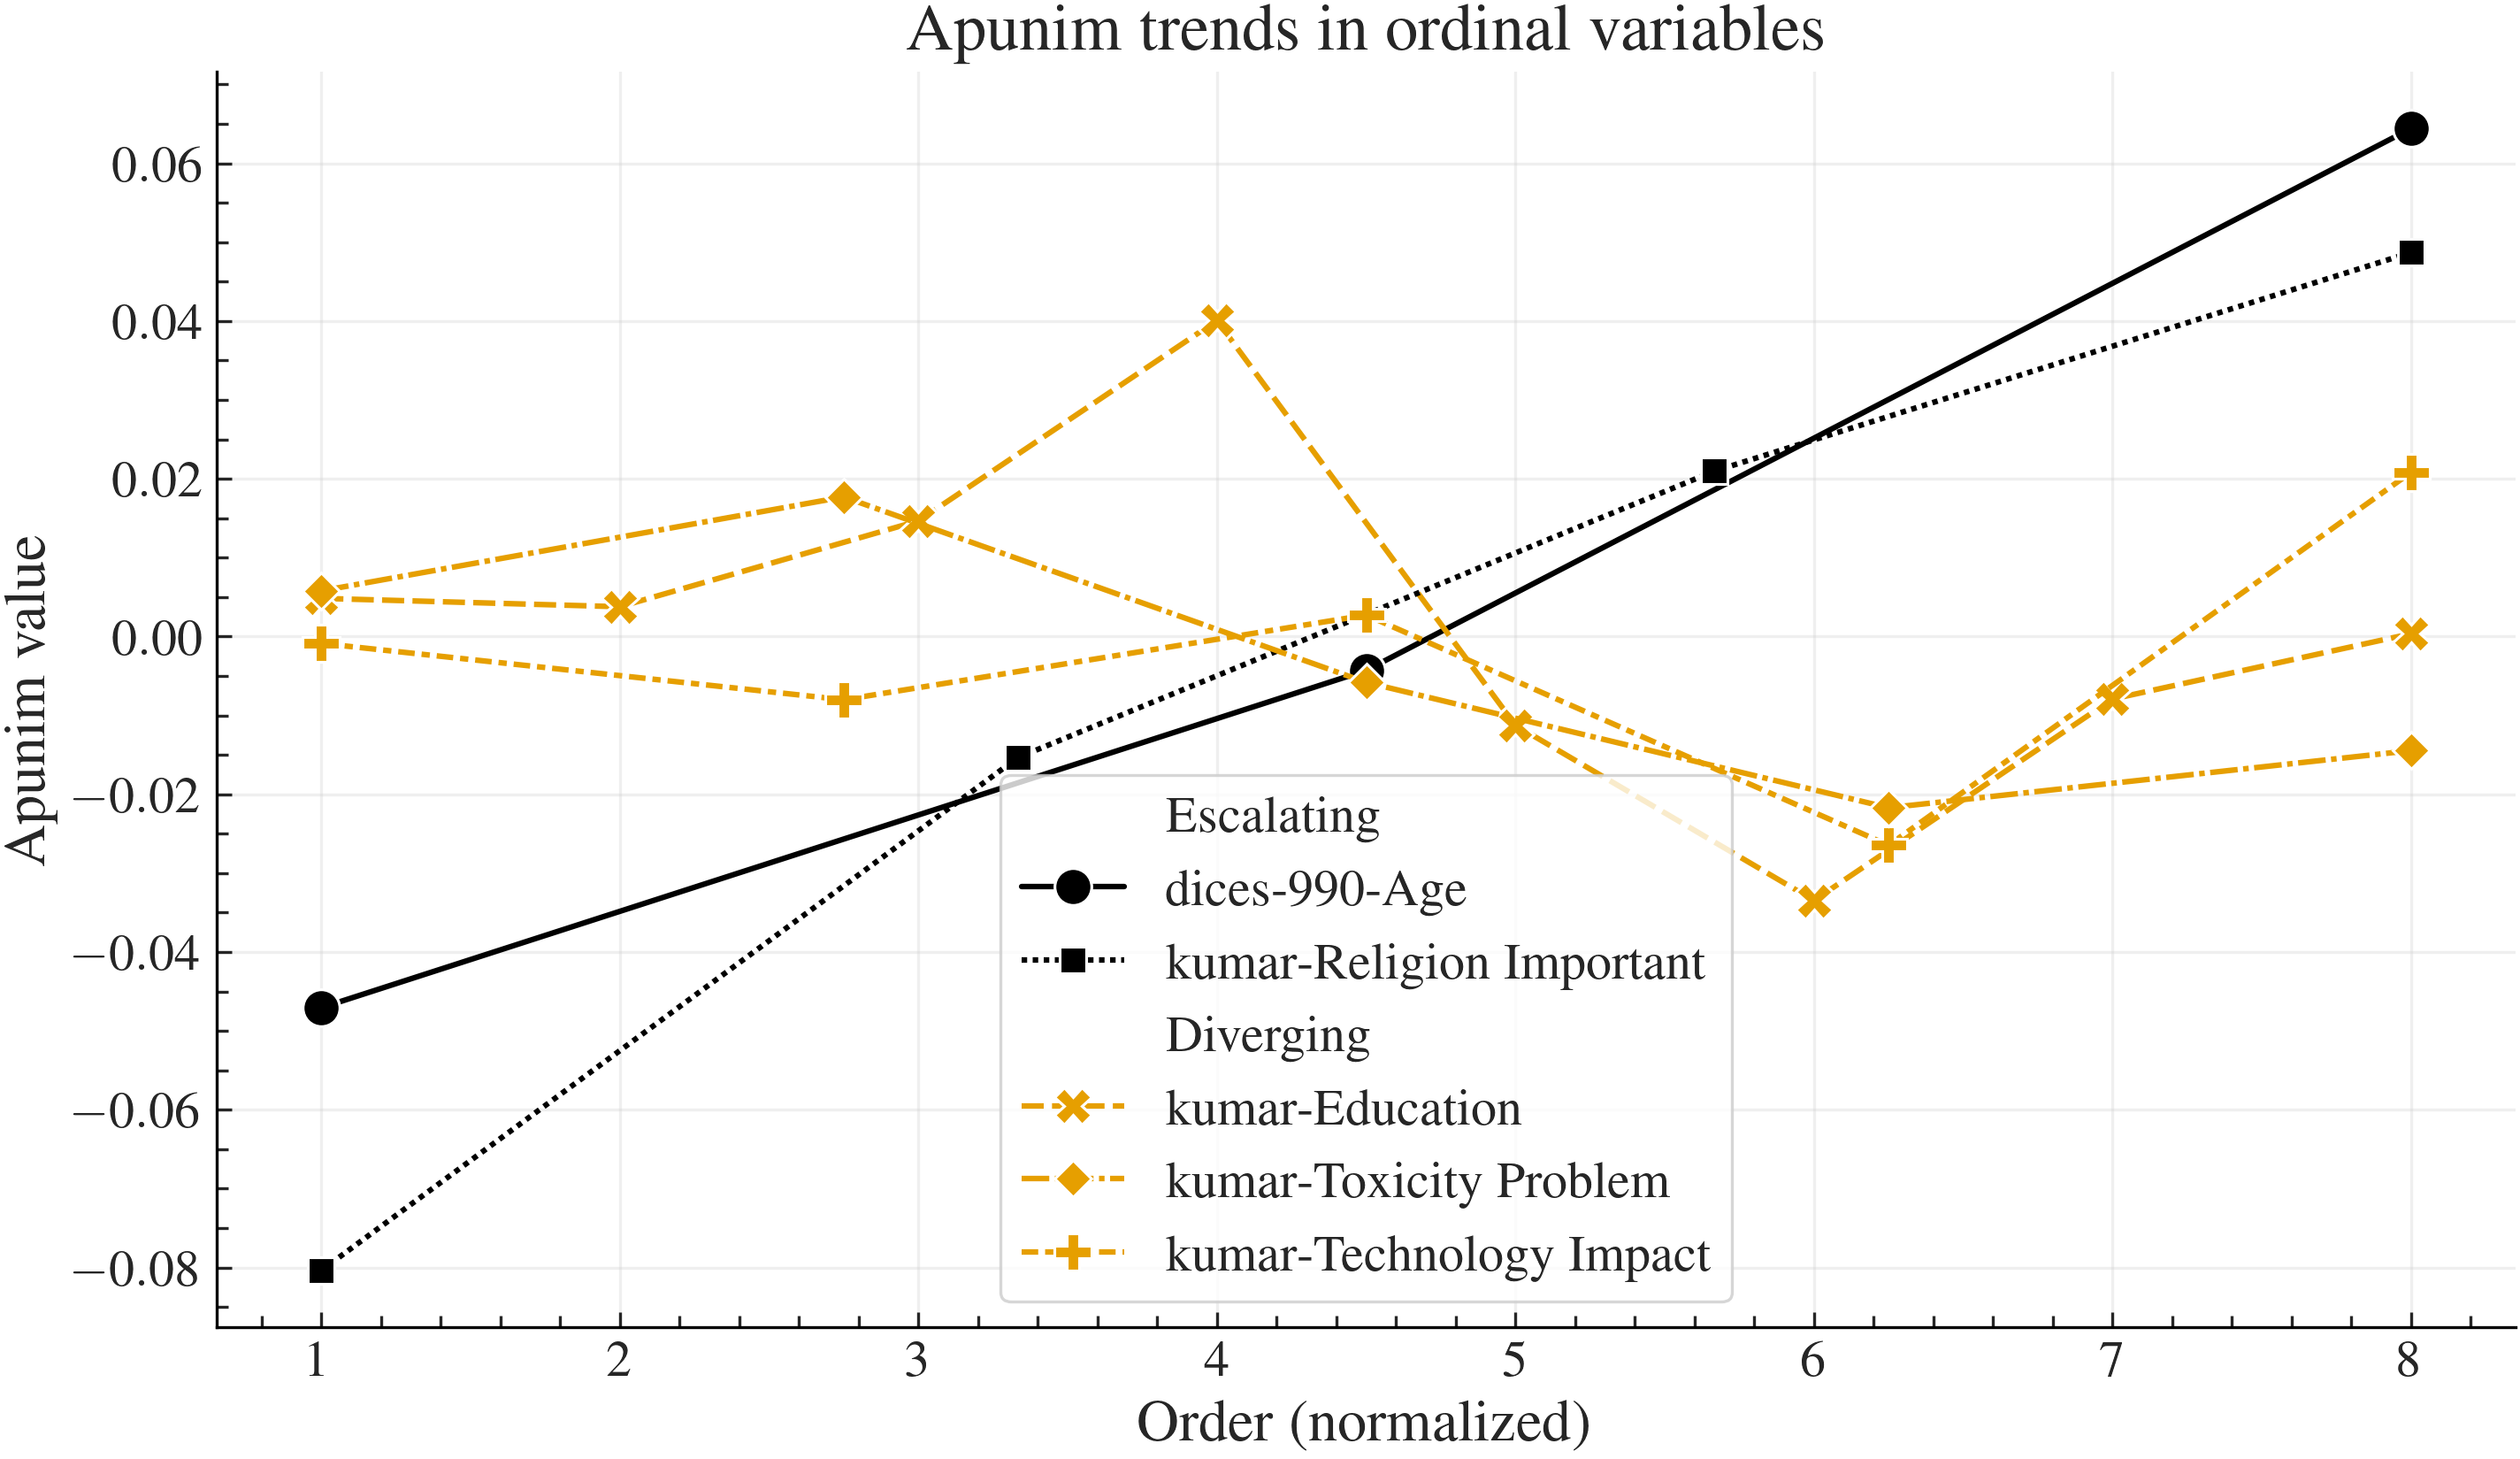
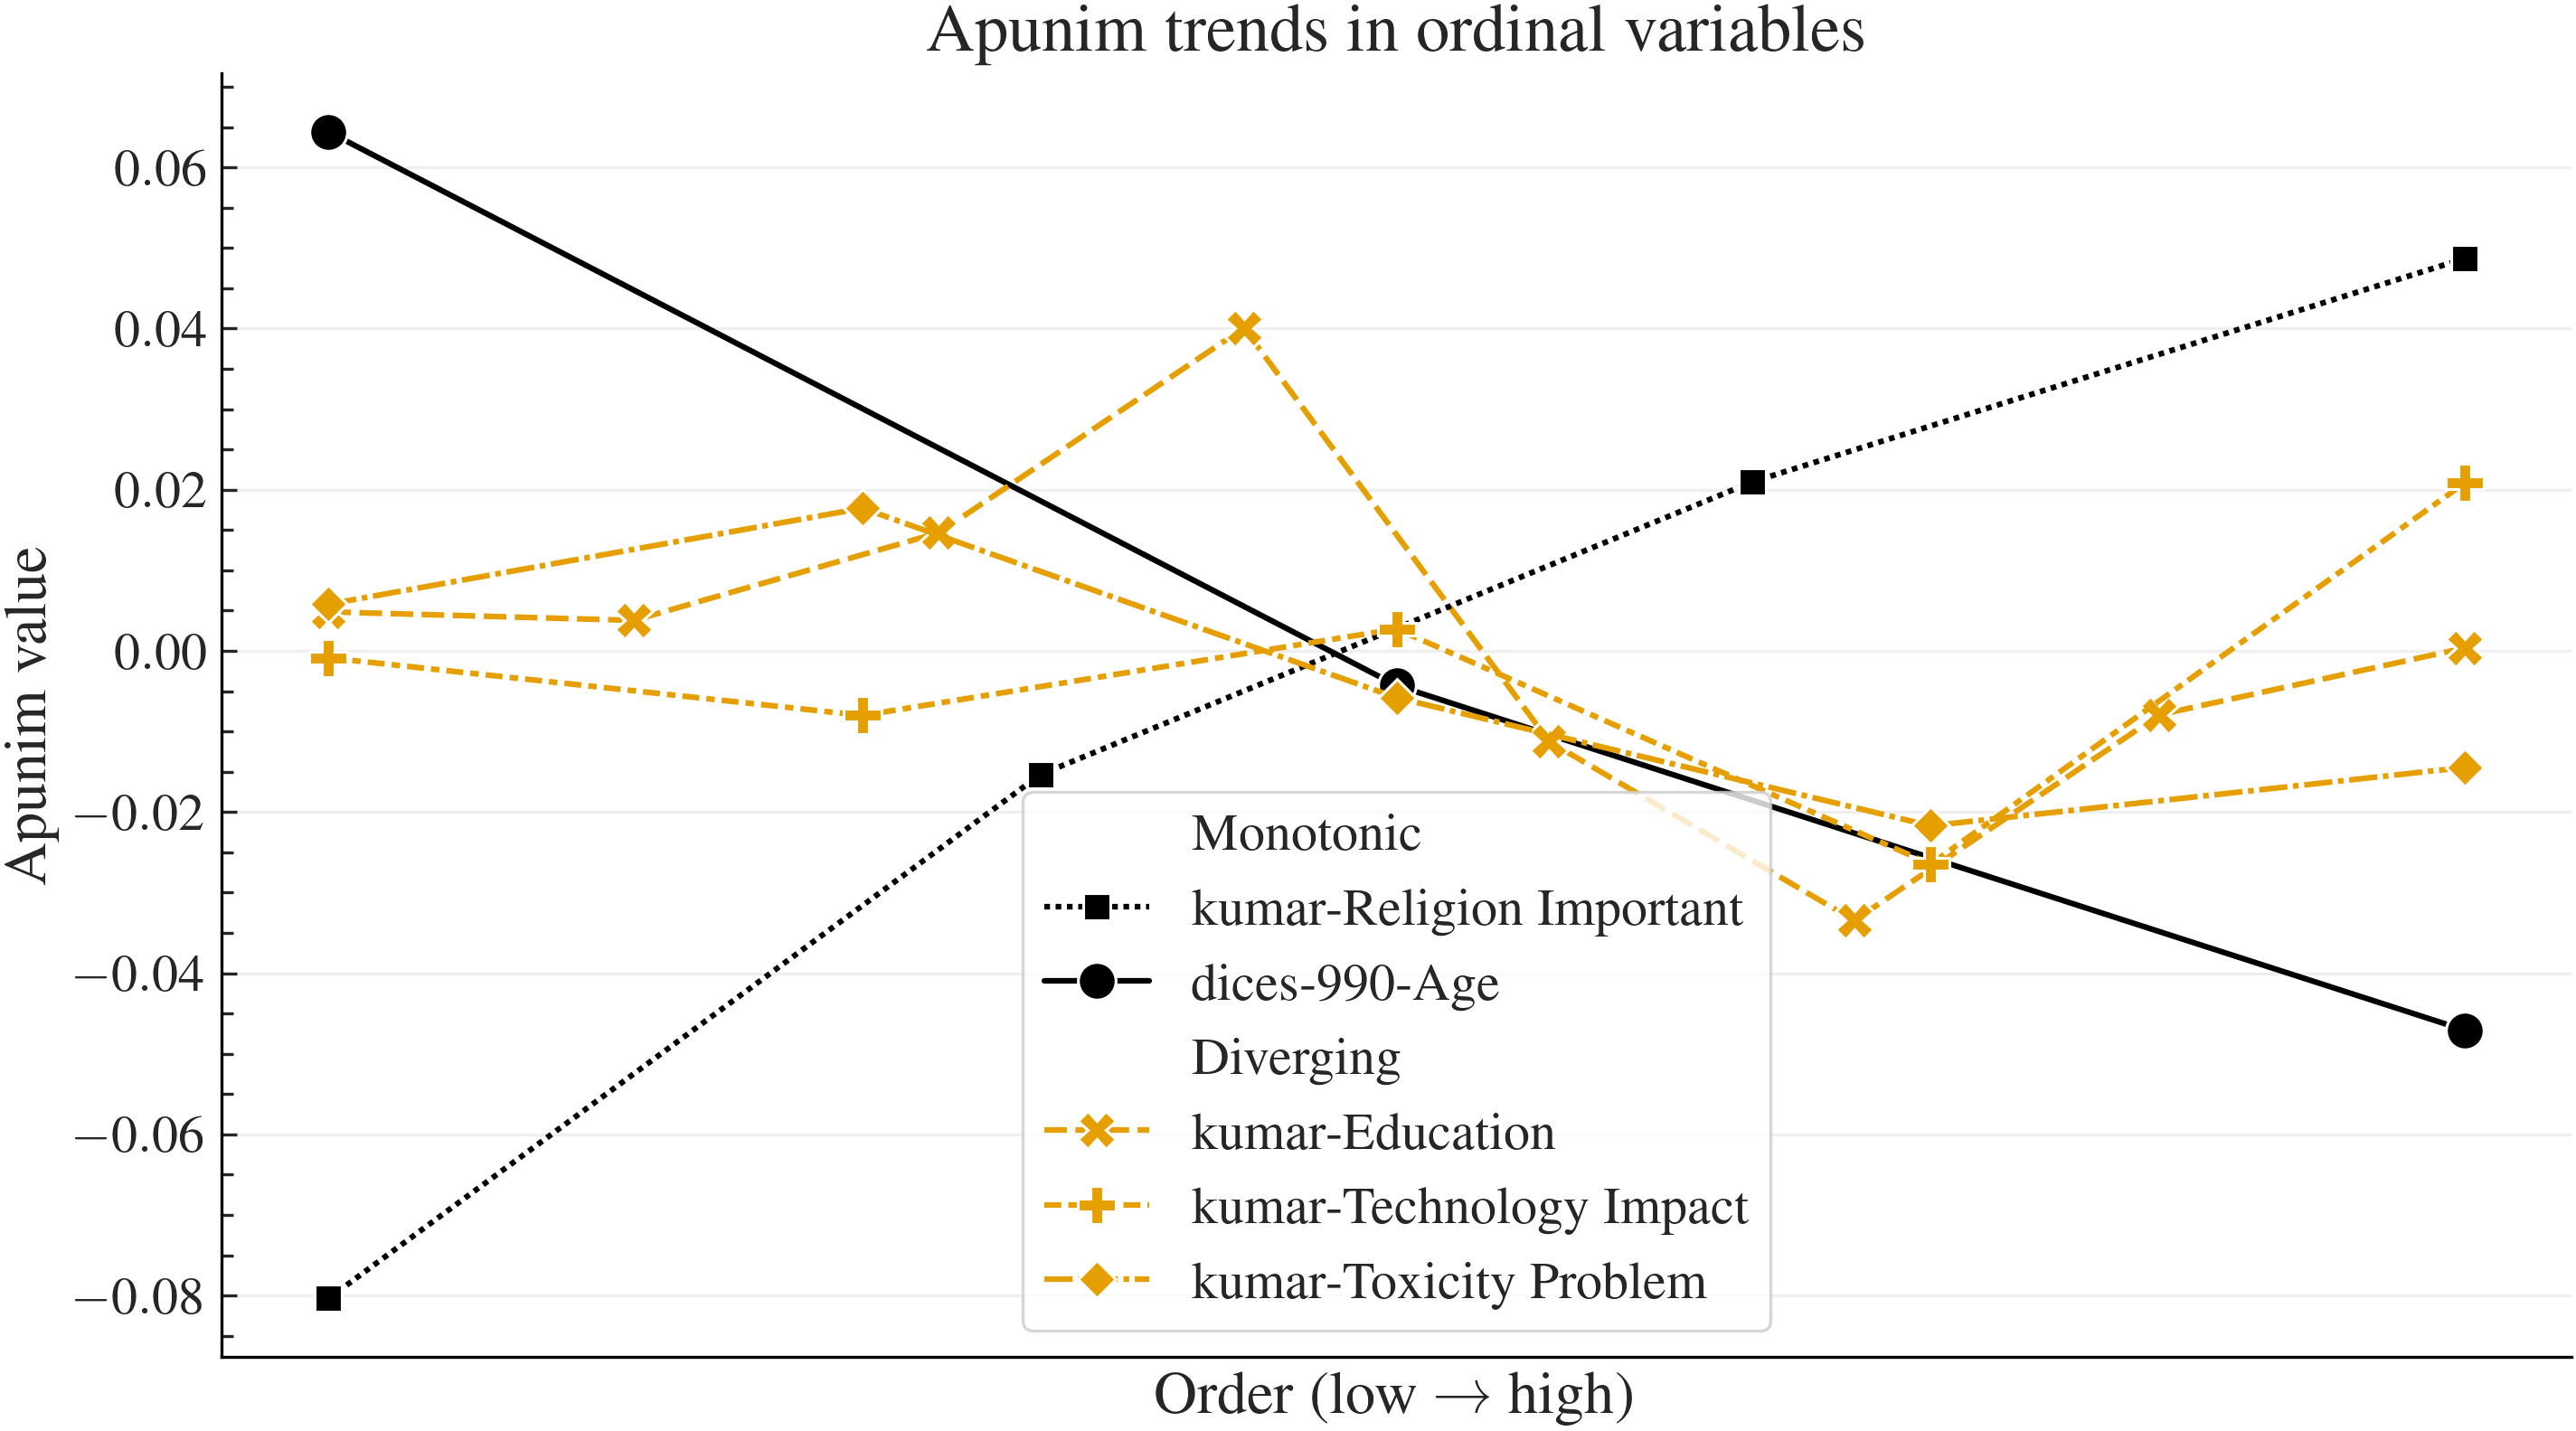
improve ordinal graph legibility

diff --git a/src/export_results.py b/src/export_results.py
@@ -25,7 +25,7 @@ def csv_to_latex(results_dir: Path, latex_output_dir: Path) -> None:
         )
 
 
-def ordinal_graphs(results_dir: Path, graph_output_dir: Path) -> None:
+def ordinal_graph(results_dir: Path, graph_output_dir: Path) -> None:
     """
     For each CSV in results_dir:
     - Identify ordinal-valued rows grouped by the 'SDB Feature' column.
@@ -37,9 +37,6 @@ def ordinal_graphs(results_dir: Path, graph_output_dir: Path) -> None:
 
     # --- Collect all data first ---
     for file in results_dir.rglob("*.csv"):
-        if file.name == "kumar_ablation.csv":
-            continue
-
         df = pd.read_csv(file)
         dataset = file.stem
 
@@ -152,7 +149,7 @@ def ordinal_graphs(results_dir: Path, graph_output_dir: Path) -> None:
     add_grouped_legend(
         ax,
         group_1=highlight_group_1,
-        group_1_title="Escalating",
+        group_1_title="Monotonic",
         group_2=highlight_group_2,
         group_2_title="Diverging",
         others_title="Neither",
@@ -160,10 +157,11 @@ def ordinal_graphs(results_dir: Path, graph_output_dir: Path) -> None:
     )
 
     plt.title("Apunim trends in ordinal variables")
-    plt.xlabel("Order (normalized)")
+    plt.xlabel("Order (low → high)")
     plt.ylabel("Apunim value")
     plt.grid(True, alpha=0.3)
     plt.tight_layout()
+    ax.set_xticks([])  # Remove x-axis ticks
 
     graphs.save_plot(graph_output_dir / "apunim_ordinal.png")
 
@@ -233,7 +231,7 @@ def add_grouped_legend(
 def main(results_dir: Path, latex_output_dir: Path, graph_output_dir: Path):
     graphs.graph_setup()
     csv_to_latex(results_dir=results_dir, latex_output_dir=latex_output_dir)
-    ordinal_graphs(results_dir=results_dir, graph_output_dir=graph_output_dir)
+    ordinal_graph(results_dir=results_dir, graph_output_dir=graph_output_dir)
 
 
 if __name__ == "__main__":